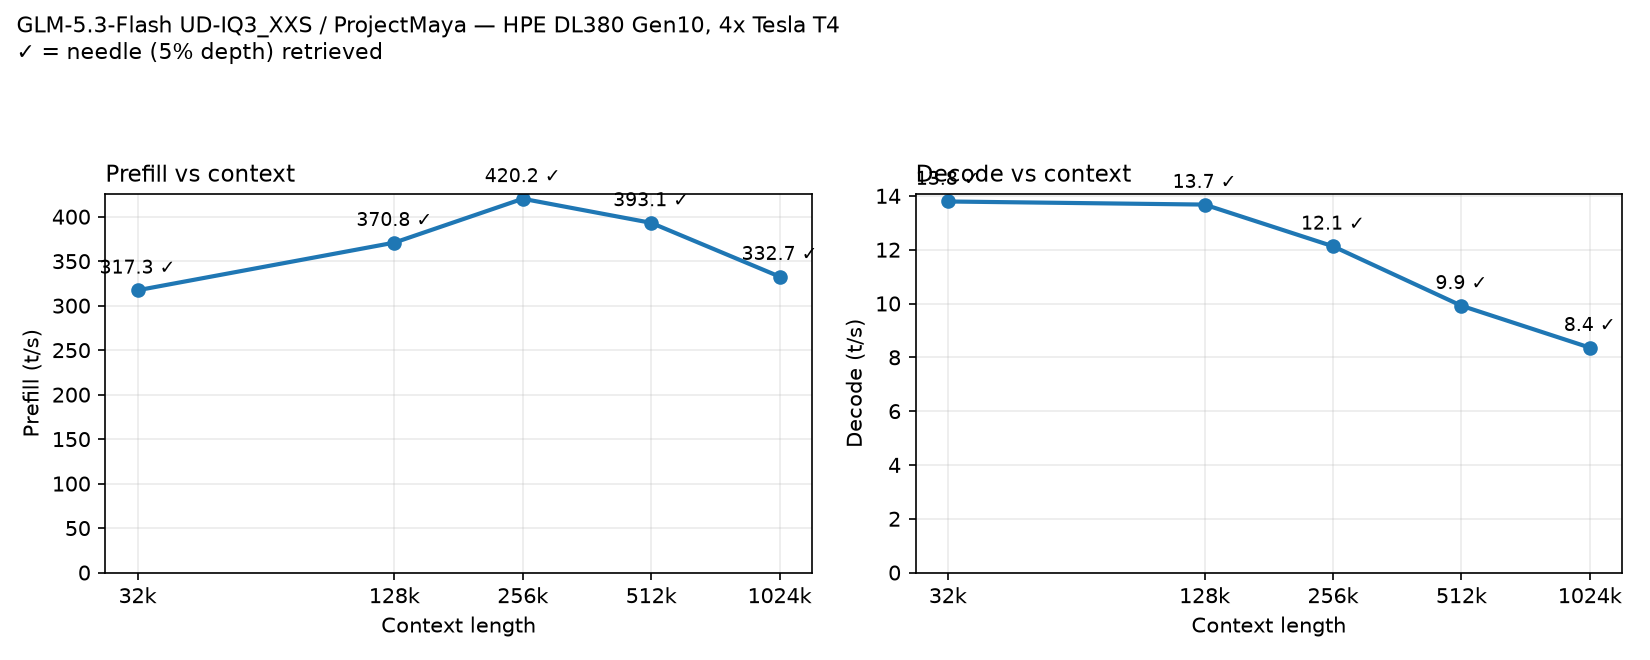
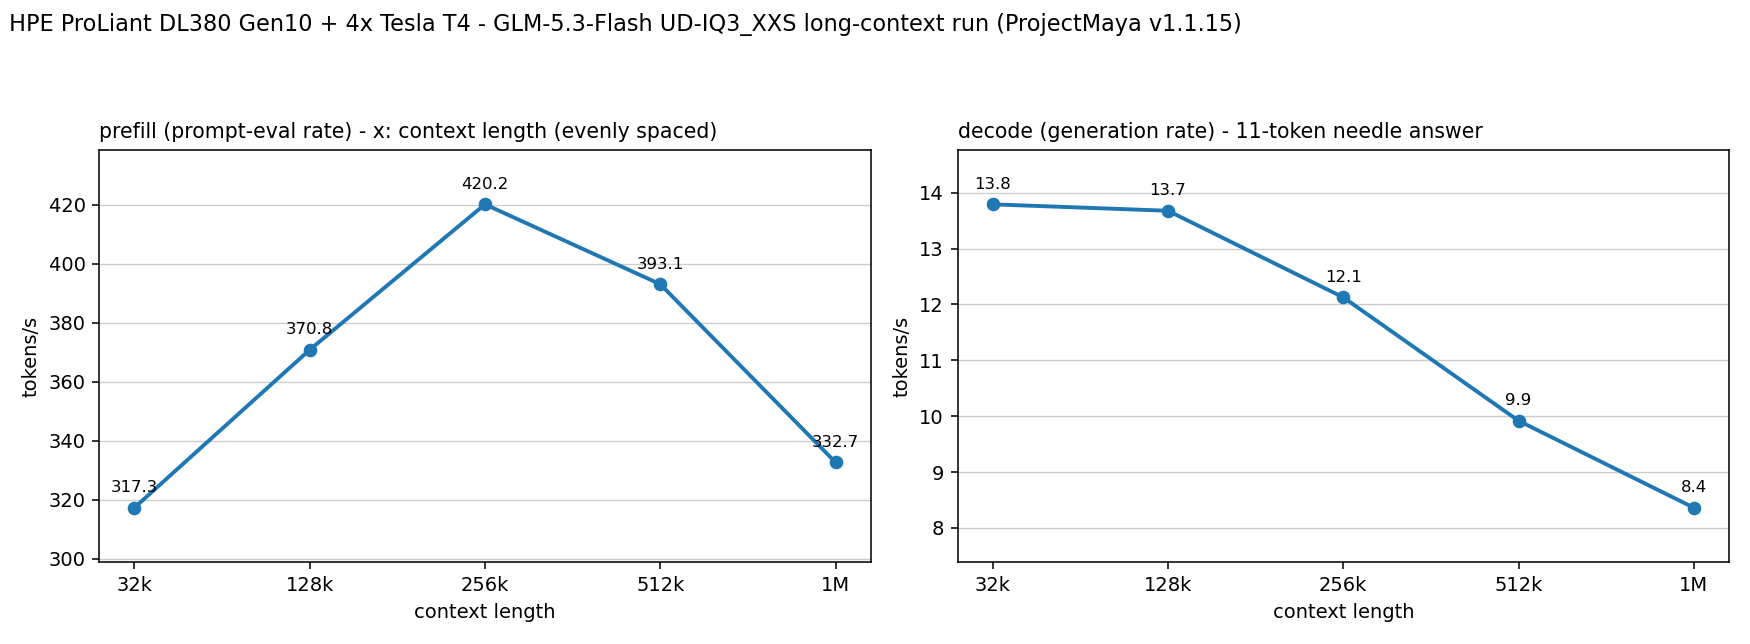
report: use measured VRAM hit rates and a linear k-axis figure
Separate the placement-plan 76%/68% from the measured 62.0%/60.1% hit rates, and regenerate both figures with evenly spaced k labels.

diff --git a/report/2026-10-18_061111_validating_glm_5.3_flash_ud_iq3_xxs_up_to_1m_context_on_4x_tesla_t4.md b/report/2026-10-18_061111_validating_glm_5.3_flash_ud_iq3_xxs_up_to_1m_context_on_4x_tesla_t4.md
@@ -61,11 +61,11 @@ HPE ProLiant DL380 Gen10 に Tesla T4 × 4（15 GB / 枚）を載せた構成で
 ### 所感
 
 - prefill は 32k の 317.3 t/s から 256k の 420.2 t/s まで上がり、512k で 393.1 t/s、1M で 332.7 t/s に下がりました。8,192 トークン chunk のバッチ処理が長いプロンプトで効く一方、512k 以上では KV streaming と attention のコストが増えるためと考えられます。
-- 11 トークン回答の生成速度は 32k の 13.79 t/s から 512k の 9.92、1M の 8.36 t/s へ低下します。エンジンログでは、層あたりの VRAM エキスパート slot が 32k の約 130 から 1M の 85〜102 に減り、VRAM ヒット率が 66.1% から 60.1% に、RAM からのエキスパート取得が 15.0 から 24.0 個 / トークンに増えています。1M ではルーティングされたエキスパートの 68% だけが VRAM に載るため、回答生成の低下は避けられません。
+- 11 トークン回答の生成速度は 32k の 13.79 t/s から 512k の 9.92、1M の 8.36 t/s へ低下します。エンジンログでは、層あたりの VRAM エキスパート slot が 32k の約 130 から 1M の 85〜102 に減り、VRAM ヒット率が 66.1% から 60.1% に、RAM からのエキスパート取得が 15.0 から 24.0 個 / トークンに増えています。1M では配置計画でもルーティングされたエキスパートの 68% にとどまり、実測のヒット率は 60.1% のため、回答生成の低下は避けられません。
 - 5% 深さのニードルは 1M まで正答しました。単純な速度だけでなく、100 万トークンの先頭付近のコードを末尾の質問から参照できることを確認しています。
 - TTFT は 256k で約 10.4 分、512k で約 22.2 分、1M で約 52.5 分です。256k はエージェント的なバッチ処理に向き、512k 以上はさらに長時間のバッチ向けです。短い回答の生成は 8〜14 t/s で、この条件での回答レイテンシは T4 4 枚としては許容範囲です。持続生成の decode 性能は測っていません。
 - コーディング用途の目安: 256k は TTFT 10.4 分・回答生成 12.1 t/s、512k は 22.2 分・9.9 t/s、1M は 52.5 分・8.4 t/s です。256k はエージェントのバッチ処理、1M はリポジトリ全体を一度読ませる長時間ジョブ向けです。
-- ProjectMaya は 512k でルーティングされたエキスパートの 76%、1M で 68% を VRAM に置き、残りを RAM から取得しています。ディスク読み出しは 0.00 回 / トークンで、232 GiB の RAM にエキスパートを pin できることが長コンテキスト運用の鍵です。
+- ProjectMaya のエンジンが示す配置計画では、ルーティングされたエキスパートの 76%（512k） / 68%（1M）を VRAM に置く計算でしたが、実測の VRAM ヒット率は `glm stat` で 62.0% / 60.1% でした。残りは RAM から取得しています。ディスク読み出しは 0.00 回 / トークンで、232 GiB の RAM にエキスパートを pin できることが長コンテキスト運用の鍵です。
 - 比較用に llama.cpp の `-cmoe`（全エキスパート CPU）は 16k で prefill 37.5 t/s でした。同じペースで 256k を読むと約 2 時間かかる計算になり、ProjectMaya の 10.4 分とは大きな差があります。T4 4 枚で長コンテキストを扱う場合、ProjectMaya の階層型エキスパート配置が実用的です。
 - MTP は 93.3% 採択で、回答生成の値は投機的デコード込みです。llama.cpp 側の比較値は投機的デコードなしなので、エンジン間の生成速度を比べる際はこの違いを含めて解釈する必要があります。
 - この検証は各コンテキスト 1 本のニードル検索と速度計測であり、コーディング品質そのもの（生成コードの正しさ）は評価していません。
